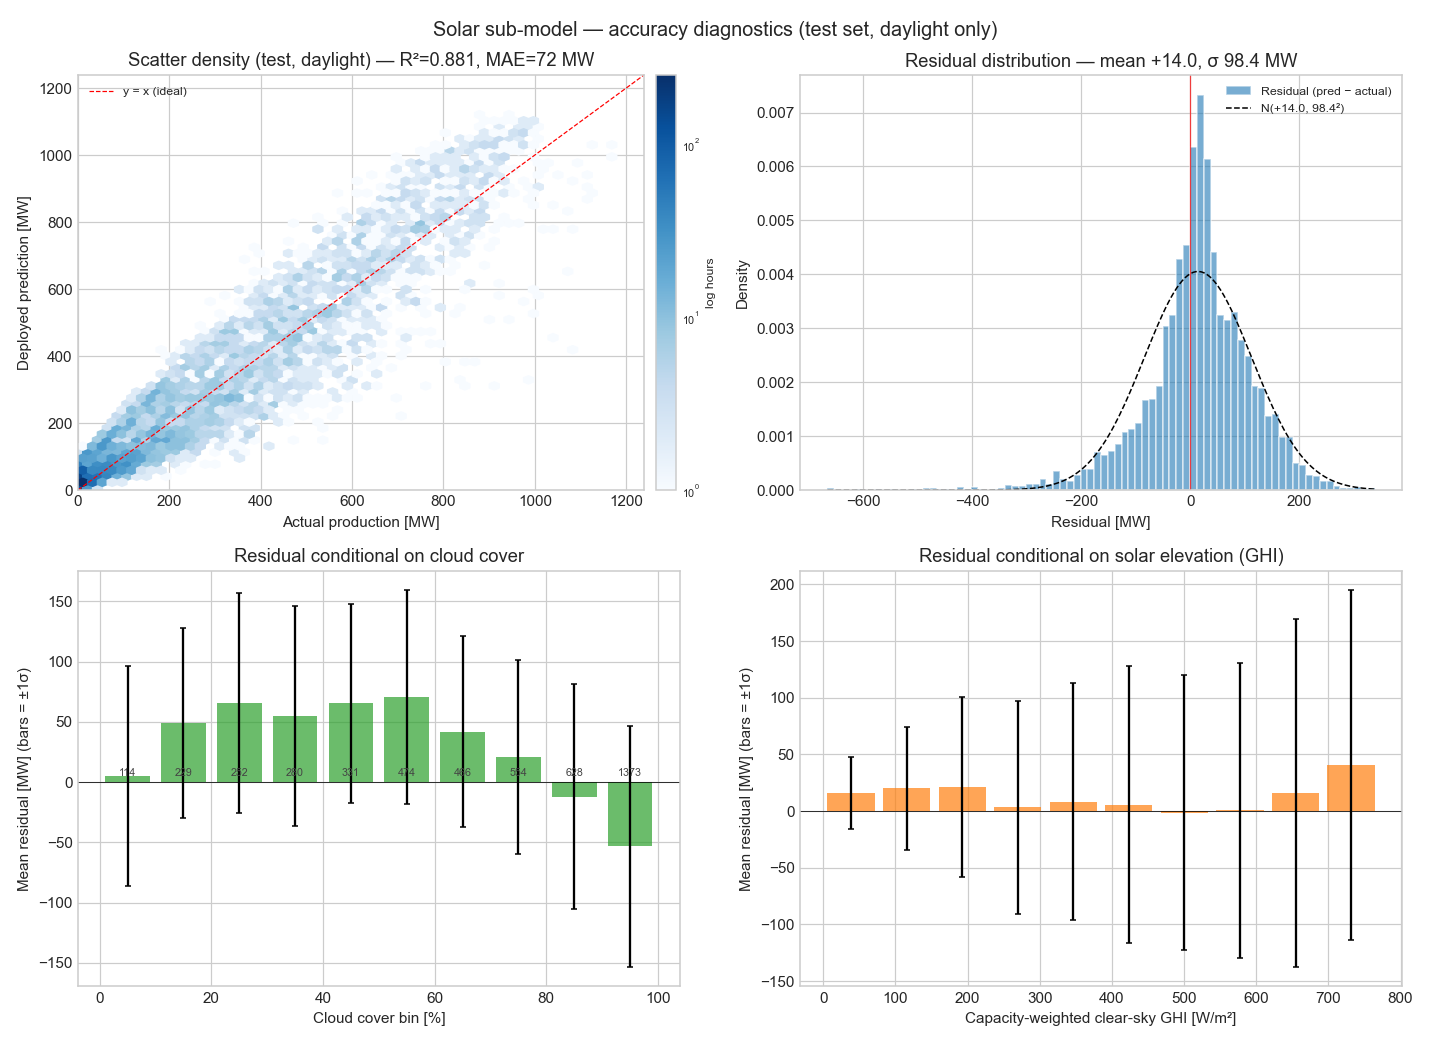
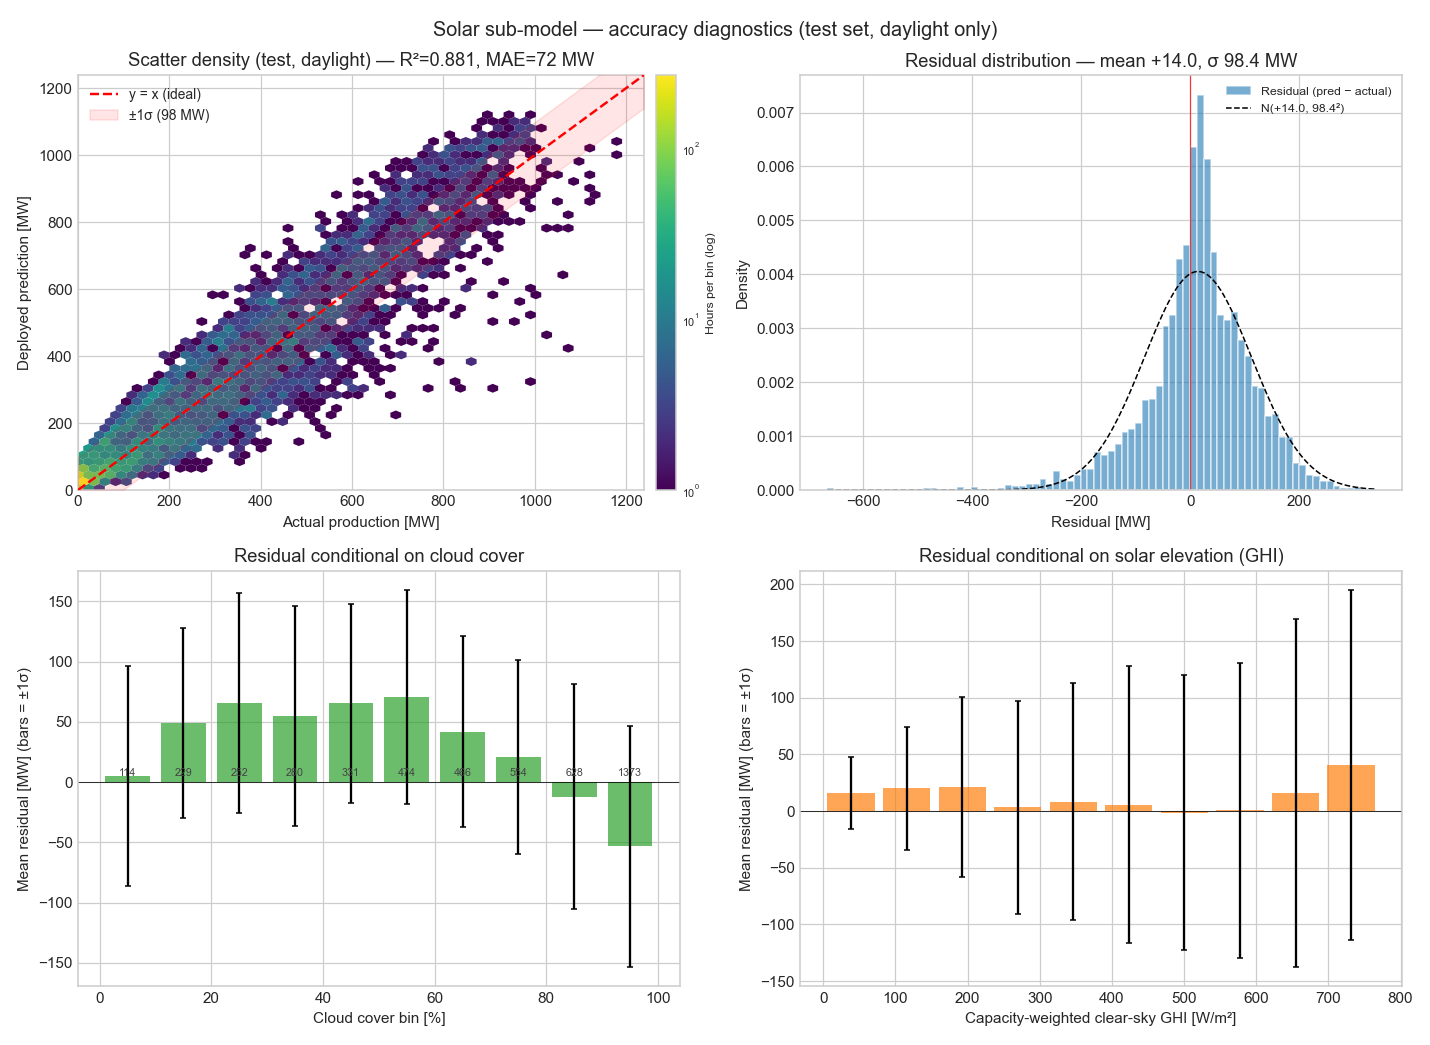
solar_accuracy.png: high-contrast scatter (viridis + ±1σ reference band)
Replace the Blues hexbin (poor contrast, hard to read the y=x reference
against pale fills) with:
  - viridis colormap on log scale: purple→blue→green→yellow shows both
    sparse tail observations AND the dense core distinctly
  - explicit white axes background so empty cells don't blur with the
    lowest hex level
  - thicker red dashed y=x reference at zorder=5
  - red-tinted ±1σ envelope band so the accuracy at any production
    level can be read off the figure directly
  - legend frame restored to alpha=0.95 for readability over hex cells

No data or model change. Only the rendering of the test scatter panel.

Changed region(s): [[0.0308, 0.0612, 0.5231, 0.49], [0.0615, 0.0612, 0.1538, 0.1225], [0.3077, 0.3368, 0.3385, 0.3675]]

diff --git a/studies/solar_visualization.py b/studies/solar_visualization.py
@@ -204,22 +204,34 @@ def fig_accuracy(df: pd.DataFrame, out_path: Path) -> None:
     test = df[df["split"] == "test"]
     test_day = test[test["is_daylight"]]
 
-    # (a) Scatter density: predicted vs actual (test, daylight only)
+    # (a) Scatter density: predicted vs actual (test, daylight only).
+    # Use a high-contrast viridis colormap on a log scale so both sparse
+    # tail observations and the dense core are clearly visible. White
+    # background under empty cells keeps the y=x reference line readable.
     ax = axes[0, 0]
+    ax.set_facecolor("white")
     a = test_day["actual_mw"].values
     p = test_day["pred_mw"].values
-    hb = ax.hexbin(a, p, gridsize=55, mincnt=1, cmap="Blues", bins="log")
+    hb = ax.hexbin(a, p, gridsize=50, mincnt=1, cmap="viridis", bins="log",
+                   linewidths=0.0)
     lim = max(a.max(), p.max()) * 1.05
-    ax.plot([0, lim], [0, lim], "r--", lw=0.8, label="y = x (ideal)")
+    ax.plot([0, lim], [0, lim], color="red", lw=1.6, ls="--",
+            zorder=5, label="y = x (ideal)")
+    # Add ±1σ_residual reference band so the user can read accuracy by eye
+    sd = float(np.std(p - a))
+    band_x = np.array([0, lim])
+    ax.fill_between(band_x, band_x - sd, band_x + sd, color="red",
+                    alpha=0.10, zorder=4, label=f"±1σ ({sd:.0f} MW)")
     ax.set_xlim(0, lim); ax.set_ylim(0, lim)
     ax.set_xlabel("Actual production [MW]")
     ax.set_ylabel("Deployed prediction [MW]")
     r = np.corrcoef(a, p)[0, 1] ** 2
     mae = float(np.mean(np.abs(p - a)))
     ax.set_title(f"Scatter density (test, daylight) — R²={r:.3f}, MAE={mae:.0f} MW")
-    ax.legend(loc="upper left", fontsize=8)
+    ax.legend(loc="upper left", fontsize=9, framealpha=0.95)
     cb = fig.colorbar(hb, ax=ax, fraction=0.04, pad=0.02)
-    cb.set_label("log hours", fontsize=8); cb.ax.tick_params(labelsize=7)
+    cb.set_label("Hours per bin (log)", fontsize=8)
+    cb.ax.tick_params(labelsize=7)
 
     # (b) Residual histogram + KDE
     ax = axes[0, 1]
